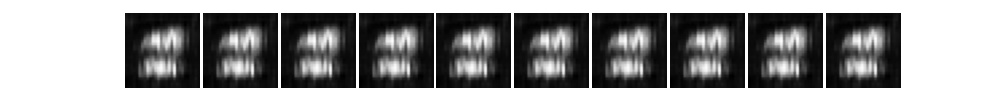
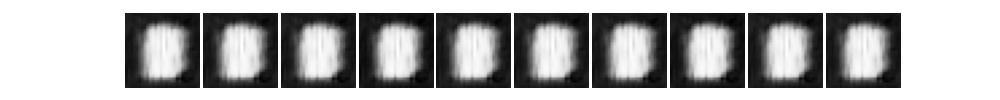
wandb

Changed region(s): [[0.124, 0.18, 0.899, 0.87]]

diff --git a/train_vae.py b/train_vae.py
@@ -1,3 +1,4 @@
+import code
 import os
 import argparse
 import math
@@ -35,22 +36,29 @@ def main(config):
    dvae = dVAE(num_tokens, codebook_dim, hidden_dim, channels)
    opt = Adam(dvae.parameters(), lr = learning_rate)
 
-   wandb.init(project = "DALL-E")
-   wandb.config = {
-      "learning_rate": learning_rate,
-      "epochs": epochs,
-      "batch_size": batch_size
+   dvae_config = {
+      'hparams': 'copying from Hannu',
+      'epochs': epochs,
+      'learning_rate': learning_rate,
+      'batch_size': batch_size,
+      'num_tokens': num_tokens,
+      'codebook_dim': codebook_dim,
+      'hidden_dim': hidden_dim,
    }
+
+   wandb.init(
+      project = 'Small DALL-E',
+      config = dvae_config)
 
    if torch.cuda.is_available():
       dvae.cuda()
 
-   fshn_mnist_train = dset.FashionMNIST('./fashion_MNIST', train=True, download=True, transform=T.ToTensor())
+   # fshn_mnist_train = dset.FashionMNIST('./fashion_MNIST', train=True, download=True, transform=T.ToTensor())
    mnist_train = dset.MNIST('./MNIST_data' , train=True, download=True, transform=T.ToTensor())
-   loader_train = DataLoader(fshn_mnist_train, batch_size=batch_size,
+   loader_train = DataLoader(mnist_train, batch_size=batch_size,
                              shuffle=True, drop_last=True, num_workers=0)
 
-   temp = 1.
+   temp = 1.0
    step = 0
    plt.figure(figsize=(10, 1))
 
@@ -65,37 +73,53 @@ def main(config):
       for i, (data, labels) in enumerate(loader_train):
          data = data.to(device=next(dvae.parameters()).device)
          loss, out = dvae(data, temp)
-         print('Index: {}'.format(i))
+         # print('Index: {}'.format(i))
          opt.zero_grad()
          loss.backward()
          opt.step()
 
-         if i % 200 == 0:
+         logs = {}
+
+         if i % 100 == 0:
+            print('iter {}/{}'.format(i, len(loader_train)))
             with torch.no_grad():
                codes = dvae.hard_indices(data[:j])
                hard_recons = dvae.codebook_decode(codes)
 
-               # Temporary
-               hard_recons = hard_recons.detach().cpu()
-               # out_np = out.cpu().detach()
-               # data2 = data.cpu().detach()
+            hard_recons, codes = map(lambda x: x.detach().cpu(), (hard_recons, codes))
+            # out_np = out.cpu().detach()
+            # data2 = data.cpu().detach()
 
-               gspec = gridspec.GridSpec(1, 10)
-               gspec.update(wspace=0.05, hspace=0.05)
-               for k, sample in enumerate(hard_recons[:j]):
-                  ax = plt.subplot(gspec[k])
-                  plt.axis('off')
-                  ax.set_xticklabels([])
-                  ax.set_yticklabels([])
-                  ax.set_aspect('equal')
-                  plt.imshow(sample.reshape(28, 28), cmap='Greys_r')
-               plt.savefig(os.path.join('./dvae_generation', 'dvae_generationE{}.jpg'.format(epoch)))
+            logs = {
+               **logs, 
+               'sample images': wandb.Image(data[:j], caption = 'original image'),
+               'reconstructed images': wandb.Image(hard_recons, caption = 'reconstructed image'),
+               'codebook_indices': wandb.Histogram(codes),
+            }
 
-            temp = max(temp * math.exp(-1e-6 * step), 0.5)
+            gspec = gridspec.GridSpec(1, 10)
+            gspec.update(wspace=0.05, hspace=0.05)
+            for k, sample in enumerate(hard_recons[:j]):
+               ax = plt.subplot(gspec[k])
+               plt.axis('off')
+               ax.set_xticklabels([])
+               ax.set_yticklabels([])
+               ax.set_aspect('equal')
+               plt.imshow(sample.reshape(28, 28), cmap='Greys_r')
+            plt.savefig(os.path.join('./dvae_generation', 'dvae_generationE{}.jpg'.format(epoch)))
+
+         temp = max(temp * math.exp(-1e-6 * step), 0.5)
 
          step += 1
 
-         wandb.log({"loss": loss})
+         logs = {
+            **logs,
+            'iteration': i,
+            'loss': loss,
+            'temp': temp
+         }
+
+         wandb.log(logs)
          
       print('Epoch: {} \tLoss: {:.6f}'.format(epoch, loss.data))
 
